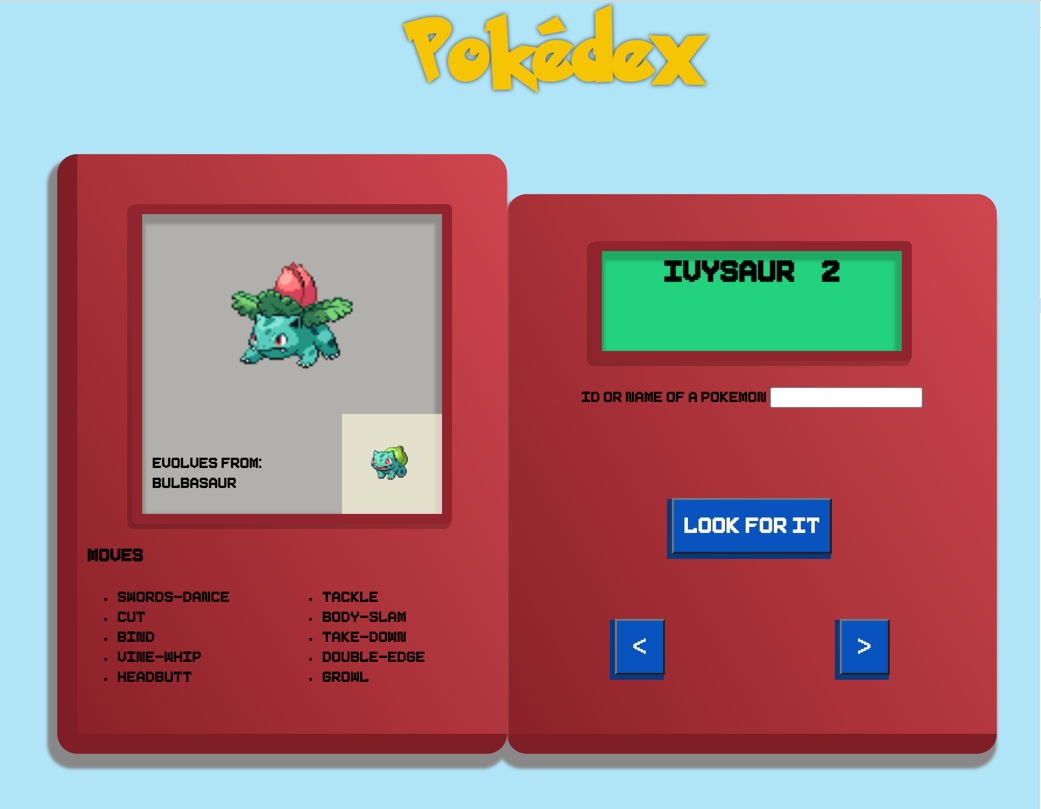
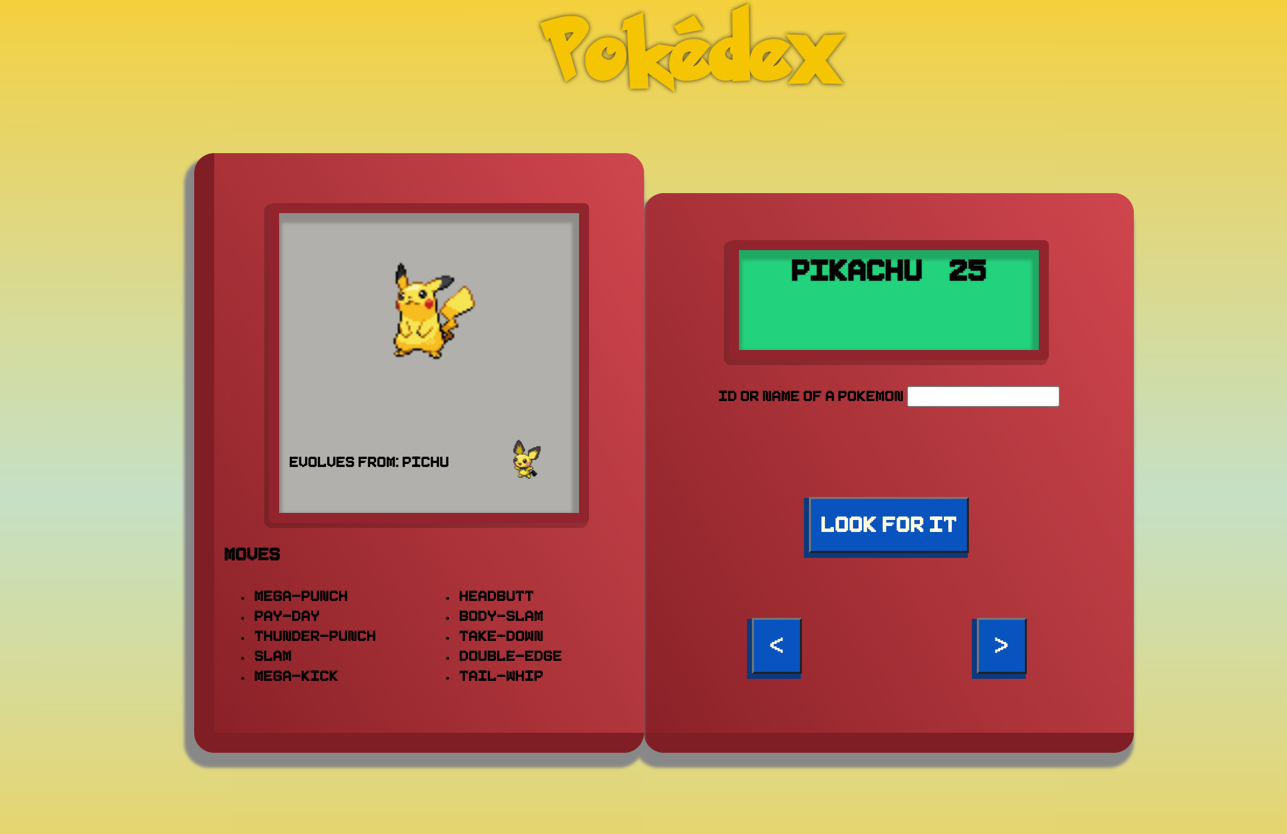
linear gradient

diff --git a/README.md b/README.md
@@ -28,8 +28,8 @@ before extras:
 
 ### extras:
 
-- [x] next previous button
-- [ ] gradient background depending on the pokemon types
+- [x] next previous button (previous evolution also clickable)
+- [x] gradient background depending on the pokemon types
 - [ ] extra info for each item on the page
 - [ ] encounters *(extra spicy)*
 
